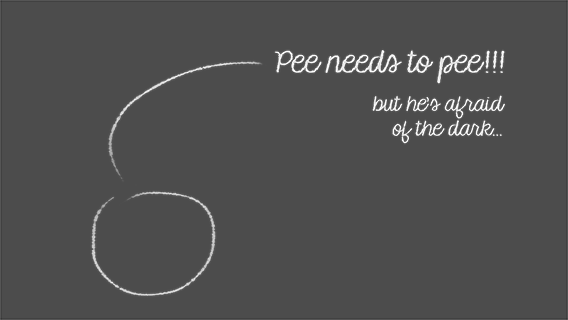
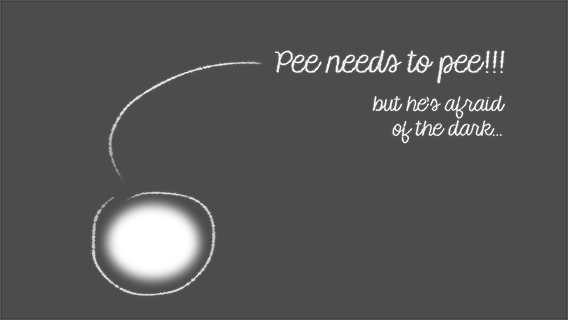
adding new tutorial step

Changed region(s): [[0.1796, 0.625, 0.3592, 0.9062]]

diff --git a/sources-sparrow/PeeQuest/PeeQuest/ui/PQTutorial.m b/sources-sparrow/PeeQuest/PeeQuest/ui/PQTutorial.m
@@ -21,6 +21,7 @@
         steps = [[NSMutableArray alloc] init];
         [steps addObject:[[SPImage alloc] initWithContentsOfFile:@"tutorial01.png"]];
         [steps addObject:[[SPImage alloc] initWithContentsOfFile:@"tutorial02.png"]];
+        [steps addObject:[[SPImage alloc] initWithContentsOfFile:@"tutorial05.png"]];
         [steps addObject:[[SPImage alloc] initWithContentsOfFile:@"tutorial03.png"]];
         [steps addObject:[[SPImage alloc] initWithContentsOfFile:@"tutorial04.png"]];
     }
@@ -29,6 +30,7 @@
     [self update];
     [self performSelector:@selector(next) withObject:self afterDelay:4.0];
     [self performSelector:@selector(next) withObject:self afterDelay:7.0];
+    [self performSelector:@selector(next) withObject:self afterDelay:10.0];
     
     [self setTouchable:NO];
     

diff --git a/sources-sparrow/PeeQuest/PeeQuest/controllers/PQGameController.m b/sources-sparrow/PeeQuest/PeeQuest/controllers/PQGameController.m
@@ -253,8 +253,8 @@
     if (touch && touch.globalY > 100)
     {
         if(tutorial != NULL){
-            if([tutorial step] >= 2){
-                if([tutorial step] == 3){
+            if([tutorial step] >= 3){
+                if([tutorial step] == 4){
                     [tutorial hide];
                     tutorial = NULL;
                     [[NSUserDefaults standardUserDefaults] setBool:YES forKey:@"tutorialWatched"];
